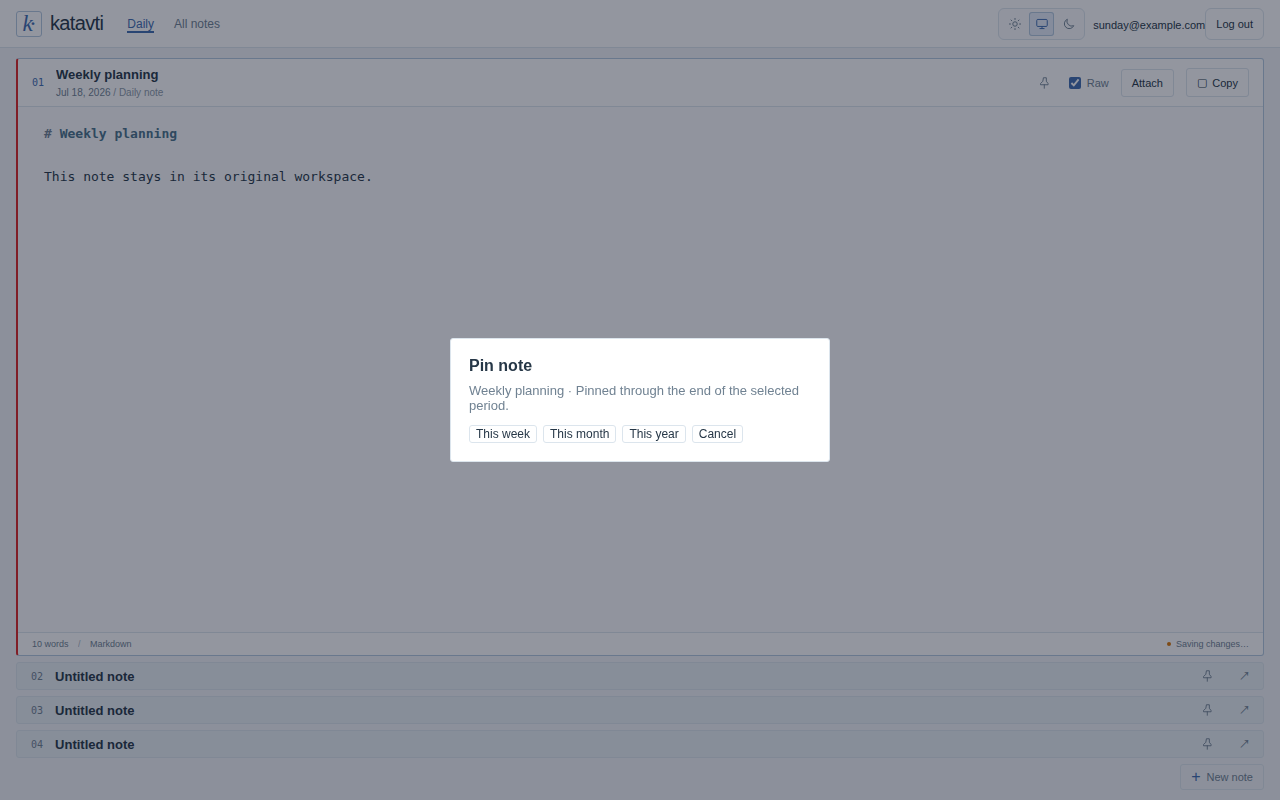
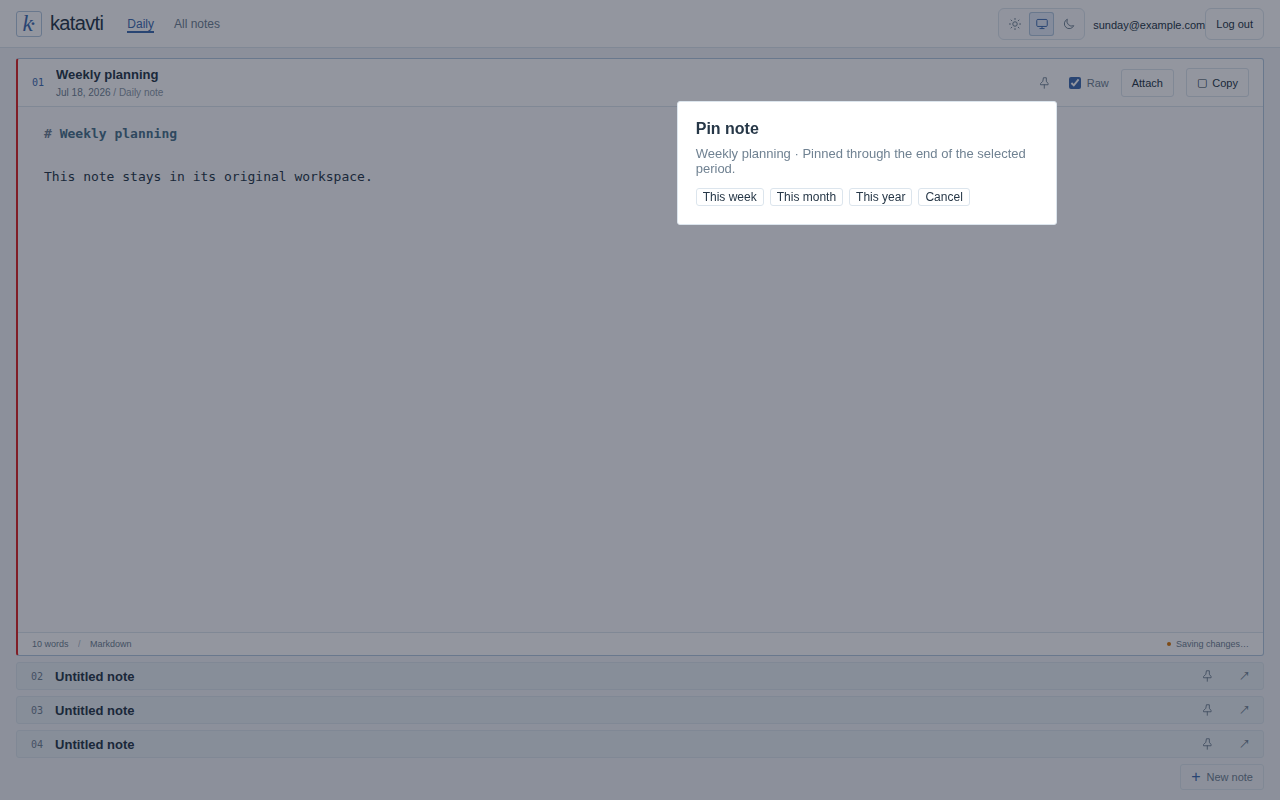
Anchor pin options to the clicked note

Changed region(s): [[0.3438, 0.4062, 0.6562, 0.5938], [0.5312, 0.125, 0.8438, 0.2812]]

diff --git a/client/src/components/NoteCard.vue b/client/src/components/NoteCard.vue
@@ -83,6 +83,7 @@ export default defineComponent({
       pendingAttachments: [] as PendingAttachment[], contentVersion: 0, disposed: false,
       assetMessage: '', assetError: false, assetImageUrls: {} as Record<string, string>, imageGeneration: 0,
       pinStep: 'period' as 'period' | 'weekStart', pinning: false, pinError: '',
+      pinDialogObserver: null as ResizeObserver | null,
     }
   },
   computed: {
@@ -149,6 +150,7 @@ export default defineComponent({
     this.disposed = true
     this.clearAssetImages()
     window.removeEventListener('pagehide', this.flushPendingEdit)
+    this.stopPositioningPin()
     this.flushPendingEdit()
   },
   methods: {
@@ -190,9 +192,43 @@ export default defineComponent({
       this.pinStep = 'period'; this.pinError = ''
       const dialog = this.$refs.pinDialog as HTMLDialogElement
       dialog.showModal()
+      this.positionPin()
+      window.addEventListener('resize', this.positionPin)
+      window.addEventListener('scroll', this.positionPin, true)
+      if (typeof ResizeObserver !== 'undefined') {
+        this.pinDialogObserver = new ResizeObserver(this.positionPin)
+        this.pinDialogObserver.observe(dialog)
+      }
+    },
+    positionPin() {
+      const dialog = this.$refs.pinDialog as HTMLDialogElement | undefined
+      const button = this.$refs.pinButton as HTMLButtonElement | undefined
+      if (!dialog?.open || !button) return
+      const anchor = button.getBoundingClientRect()
+      const { width, height } = dialog.getBoundingClientRect()
+      const { clientWidth, clientHeight } = document.documentElement
+      const edge = 8
+      const gap = 6
+      const below = anchor.bottom + gap
+      const above = anchor.top - gap - height
+      const fitsBelow = below + height <= clientHeight - edge
+      const fitsAbove = above >= edge
+      const top = fitsBelow || (!fitsAbove && clientHeight - anchor.bottom >= anchor.top) ? below : above
+      dialog.style.left = `${Math.max(edge, Math.min(anchor.right - width, clientWidth - width - edge))}px`
+      dialog.style.top = `${Math.max(edge, Math.min(top, clientHeight - height - edge))}px`
+    },
+    stopPositioningPin() {
+      window.removeEventListener('resize', this.positionPin)
+      window.removeEventListener('scroll', this.positionPin, true)
+      this.pinDialogObserver?.disconnect()
+      this.pinDialogObserver = null
     },
     dismissPin() { (this.$refs.pinDialog as HTMLDialogElement).close() },
-    closePin() { (this.$refs.pinButton as HTMLButtonElement | undefined)?.focus() },
+    closePin() {
+      this.stopPositioningPin()
+      const button = this.$refs.pinButton as HTMLButtonElement | undefined
+      button?.focus()
+    },
     async pin(period: NotePin['period'], start?: WeekStart) {
       if (this.pinning) return
       this.pinning = true; this.pinError = ''
@@ -328,7 +364,7 @@ time span { opacity: .8; }
 .note-chevron { color: var(--muted); font-size: 15px; margin-left: 8px; }
 .pin-button { align-items: center; background: transparent; border-color: transparent; color: var(--muted); display: flex; justify-content: center; min-height: 24px; min-width: 26px; padding: 3px; }
 .pin-button:hover { border-color: var(--line); color: var(--accent); }
-.pin-dialog { background: var(--surface); border: 1px solid var(--line); border-radius: var(--radius); box-shadow: var(--note-shadow); color: var(--text); max-width: min(380px, calc(100vw - 34px)); padding: 18px; }
+.pin-dialog { background: var(--surface); border: 1px solid var(--line); border-radius: var(--radius); box-shadow: var(--note-shadow); box-sizing: border-box; color: var(--text); inset: auto; margin: 0; max-height: calc(100% - 16px); max-width: calc(100% - 16px); padding: 18px; position: fixed; width: 380px; }
 .pin-dialog::backdrop { background: rgb(15 23 42 / .45); }
 .pin-dialog h2 { font-size: 16px; margin: 0 0 8px; }
 .pin-dialog p { color: var(--muted); font-size: 13px; margin: 0 0 12px; overflow-wrap: anywhere; }

diff --git a/server/test/e2e/pins-browser.test.ts b/server/test/e2e/pins-browser.test.ts
@@ -79,6 +79,19 @@ const pinned = (page: Page) => page.getByRole('region', { name: 'Pinned notes' }
 const daily = (page: Page) => page.getByRole('region', { name: 'Daily notes' })
 const dialog = (page: Page) => page.getByRole('dialog', { name: 'Pin note' })
 
+async function expectAnchoredPin(page: Page, trigger: ReturnType<Page['locator']>, side: 'above' | 'below') {
+  await expect.poll(async () => {
+    const anchor = await trigger.boundingBox()
+    const box = await dialog(page).boundingBox()
+    if (!anchor || !box) return false
+    const { width, height } = page.viewportSize()!
+    const gap = side === 'above' ? anchor.y - (box.y + box.height) : box.y - (anchor.y + anchor.height)
+    return gap >= 5 && gap <= 7 && box.x >= 7 && box.y >= 7
+      && box.x + box.width <= width - 7 && box.y + box.height <= height - 7
+      && box.x <= anchor.x + anchor.width && box.x + box.width >= anchor.x
+  }).toBe(true)
+}
+
 async function openDay(page: Page, date: string, email?: string) {
   await page.clock.setFixedTime(new Date(`${date}T12:00:00Z`))
   const loading = email ? page.waitForResponse(response => response.request().method() === 'PUT' && new URL(response.url()).searchParams.get('includePins') === 'true') : undefined
@@ -125,12 +138,24 @@ it('pins for calendar periods, remembers Sunday or Monday per account, and expir
   const sunday = 'sunday@example.com'
   const page = await device(sunday)
   await openDay(page, '2026-07-18', sunday)
+  const bottomPin = daily(page).locator('.note').last().getByRole('button', { name: 'Pin Untitled note', exact: true })
+  await bottomPin.click()
+  await page.setViewportSize({ width: 320, height: 600 })
+  await expectAnchoredPin(page, bottomPin, 'above')
+  await screenshot(page, '14-mobile-pin-menu')
+  await page.keyboard.press('Escape')
+  await dialog(page).waitFor({ state: 'hidden' })
+  expect(await bottomPin.evaluate(button => button === document.activeElement)).toBe(true)
+  await page.setViewportSize({ width: 1280, height: 800 })
   await openPin(page, 0, 'Weekly planning')
+  const weeklyPin = daily(page).getByRole('button', { name: 'Pin Weekly planning', exact: true })
+  await expectAnchoredPin(page, weeklyPin, 'below')
   await screenshot(page, '01-pin-options')
   const preference = page.waitForResponse(response => new URL(response.url()).pathname.endsWith('/pin-preference'))
   await dialog(page).getByRole('button', { name: 'This week' }).click()
   await page.getByRole('heading', { name: 'When does your week start?' }).waitFor()
   await log(await preference)
+  await expectAnchoredPin(page, weeklyPin, 'below')
   await screenshot(page, '02-first-week-preference')
   await pin(page, 'Sunday', 'week')
   await openPin(page, 1, 'July checklist')

diff --git a/docs/reports/calendar-pins/REPORT.md b/docs/reports/calendar-pins/REPORT.md
@@ -6,8 +6,8 @@ Use the pin icon on any original Daily or All notes card to pin it for the rest 
 
 | Case | Screenshot |
 | --- | --- |
-| Pin icon and week/month/year options | [01 — Pin options](screenshots/01-pin-options.png) |
-| First weekly pin asks Sunday or Monday | [02 — Week-start selector](screenshots/02-first-week-preference.png) |
+| Week/month/year options open next to the clicked pin | [01 — Pin options](screenshots/01-pin-options.png) |
+| First weekly pin asks Sunday or Monday in the same anchored dialog | [02 — Week-start selector](screenshots/02-first-week-preference.png) |
 | All three periods below the daily notes; yearly note expanded | [03 — Daily with pins](screenshots/03-all-periods-expanded.png) |
 | Same workspace on mobile | [04 — Mobile](screenshots/04-mobile-pins.png) |
 | Another device reuses the saved week start without showing the selector | [05 — Preference reused](screenshots/05-week-preference-reused.png) |
@@ -19,6 +19,7 @@ Use the pin icon on any original Daily or All notes card to pin it for the rest 
 | Anonymous pin survives a reload | [11 — Anonymous reload](screenshots/11-anonymous-pin-reloaded.png) |
 | Anonymous pin backed up at sign-in and visible on a second browser | [12 — Sign-in backup](screenshots/12-anonymous-pin-backed-up.png) |
 | Older note pinned from All notes | [13 — History](screenshots/13-pin-from-history.png) |
+| On a narrow viewport, the dialog opens above a pin near the bottom edge | [14 — Mobile pin options](screenshots/14-mobile-pin-menu.png) |
 
 ## HTTP and storage evidence
 
